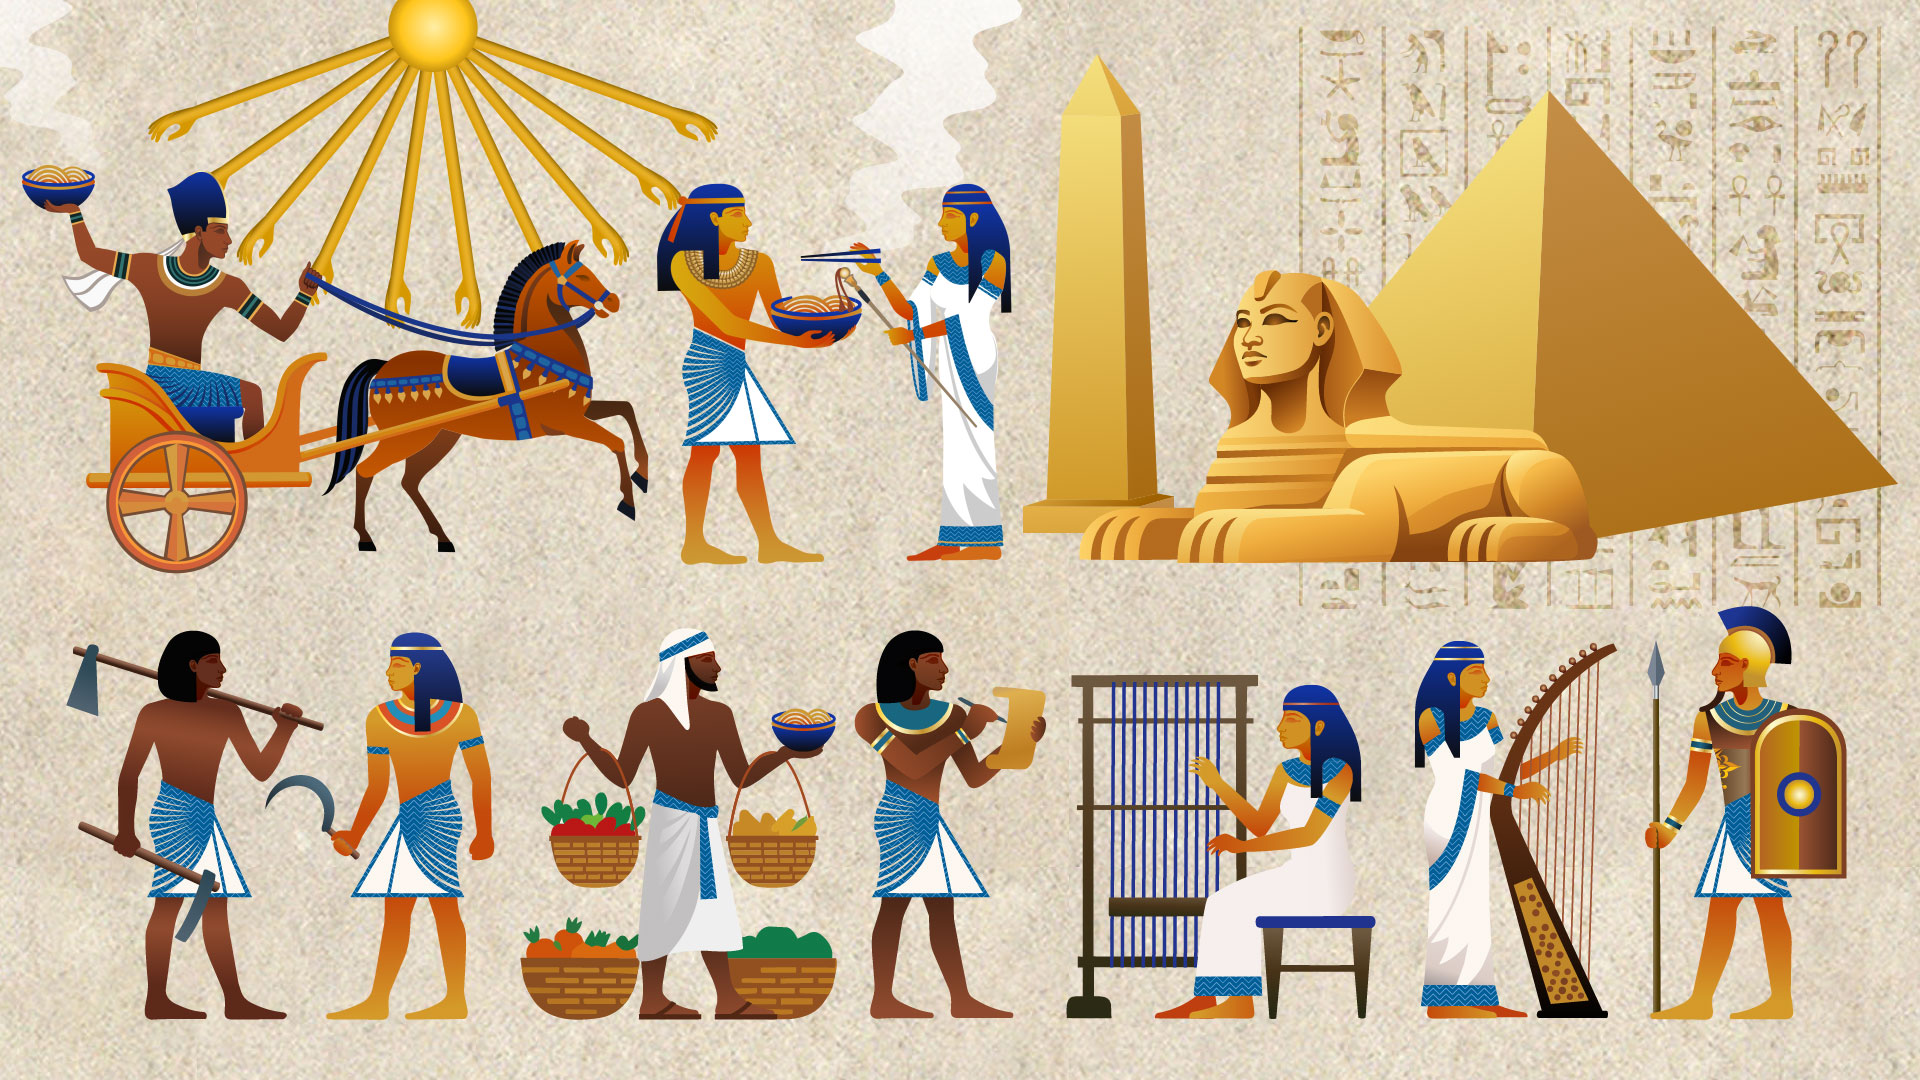
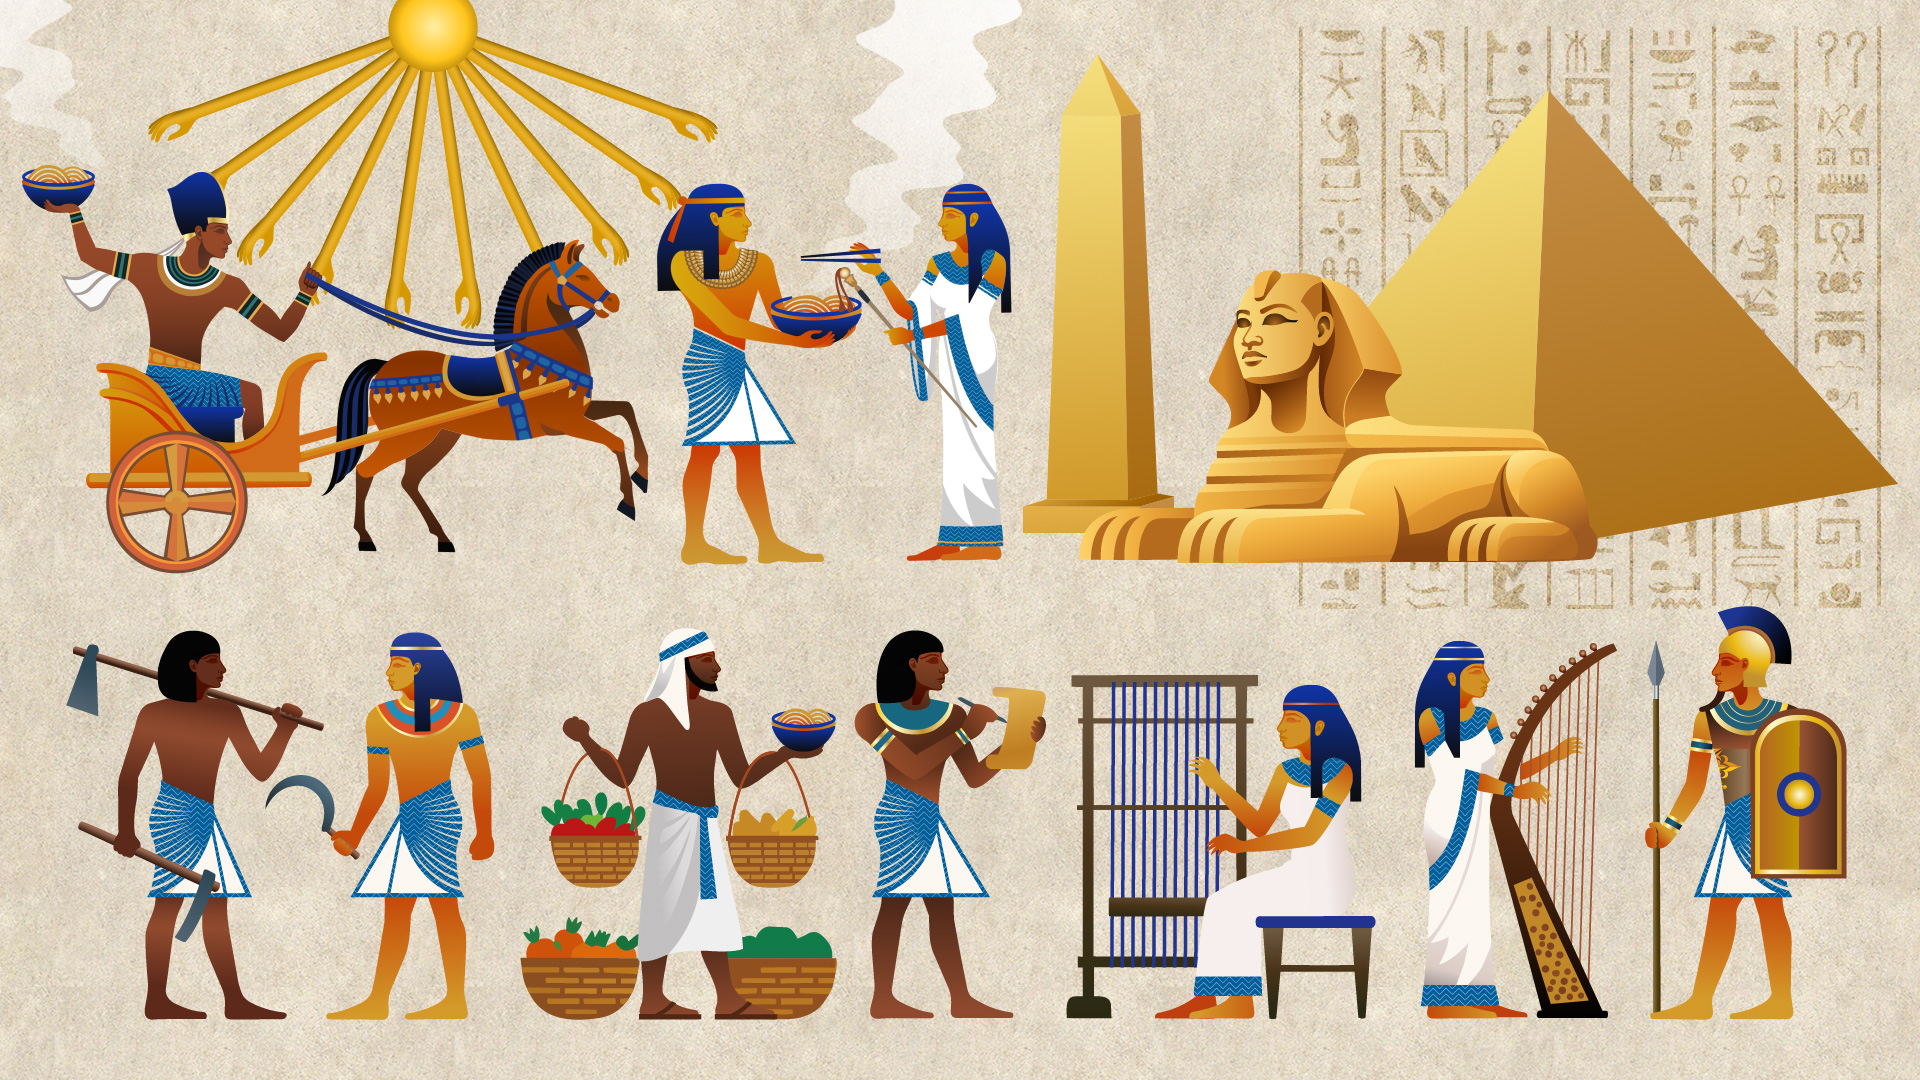
Update Modern Egyptian mural from supplied artwork (#18)

diff --git a/src/App.tsx b/src/App.tsx
@@ -364,7 +364,7 @@ export default function App() {
           {egypt ? (
             <img
               className="mural-image"
-              src={`${import.meta.env.BASE_URL}media/Tutenramen_Mural-2.jpg`}
+              src={`${import.meta.env.BASE_URL}media/Tutenramen_Mural-2.jpg?v=8e1d4a75`}
               alt="Modern Egyptian Tutenramen mural with chariot, characters, sphinx, obelisk, and pyramid"
               loading="lazy"
               decoding="async"
